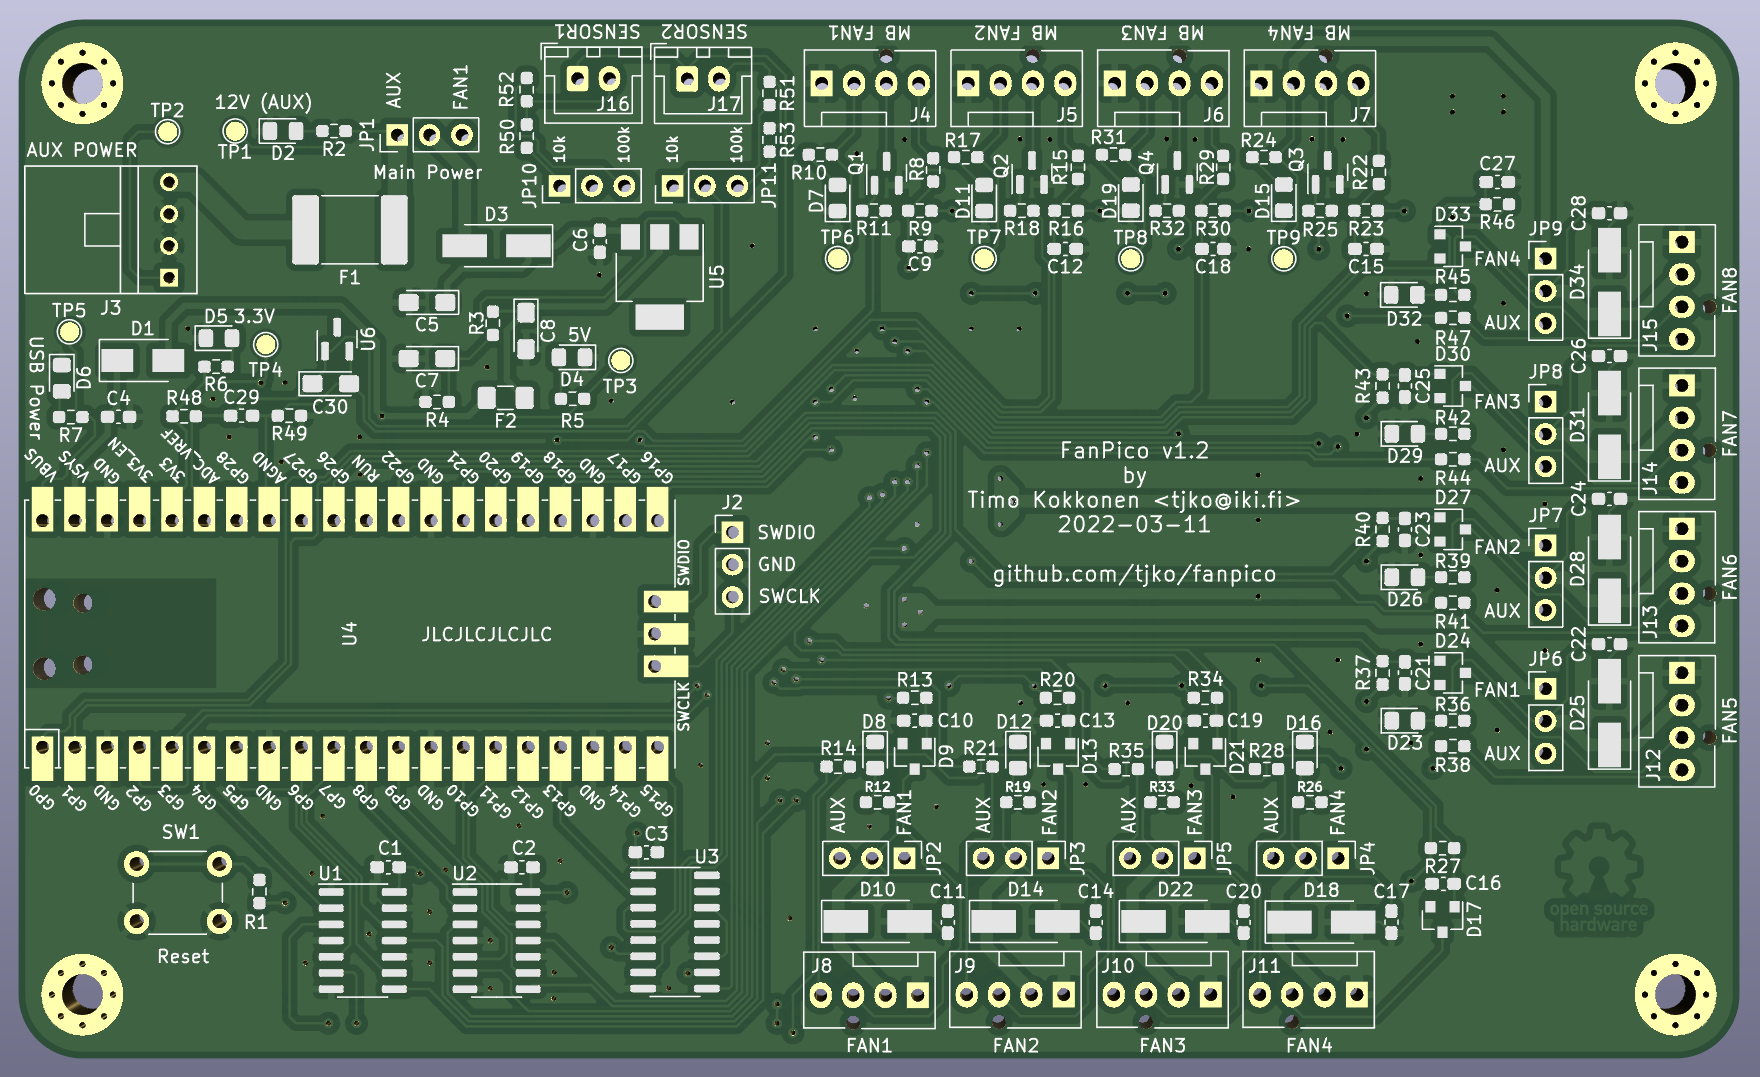
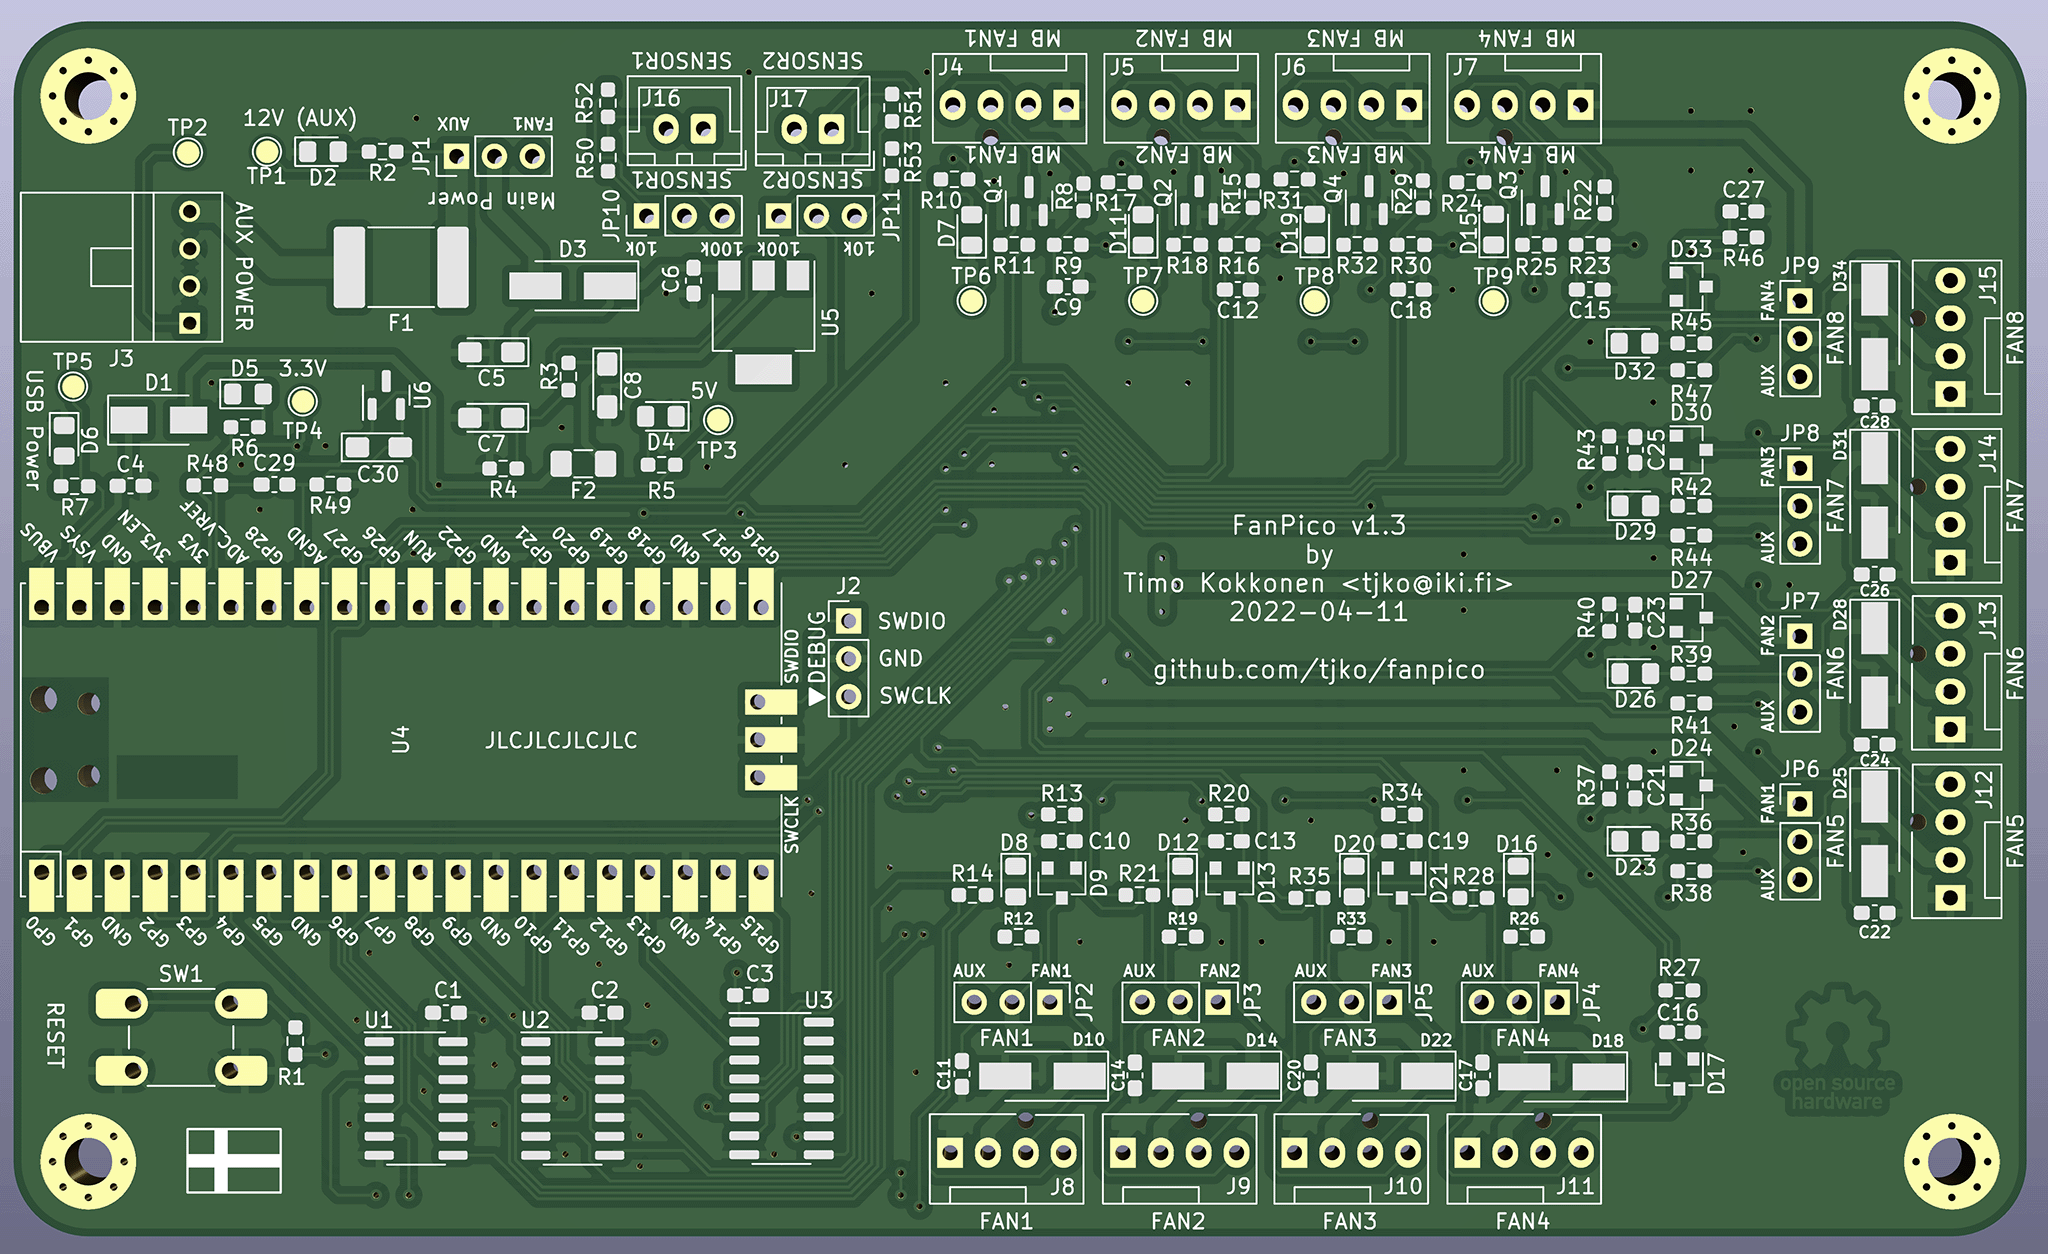
Update PCB images to PCB v1.3

diff --git a/boards/fanpico-0804/README.md b/boards/fanpico-0804/README.md
@@ -4,6 +4,8 @@
 
 v1.3
 - Rotate fan and temperature sensor connectors 180 degrees to allow use of right-angle connectors
+- Fix silksreen labels for JP11 (SENSOR2)
+- Update SW1 pad to support both SMD and through-hole 6mm switches.
 
 v1.2
 - Change sensor connectors to JST XH (2.5mm)
